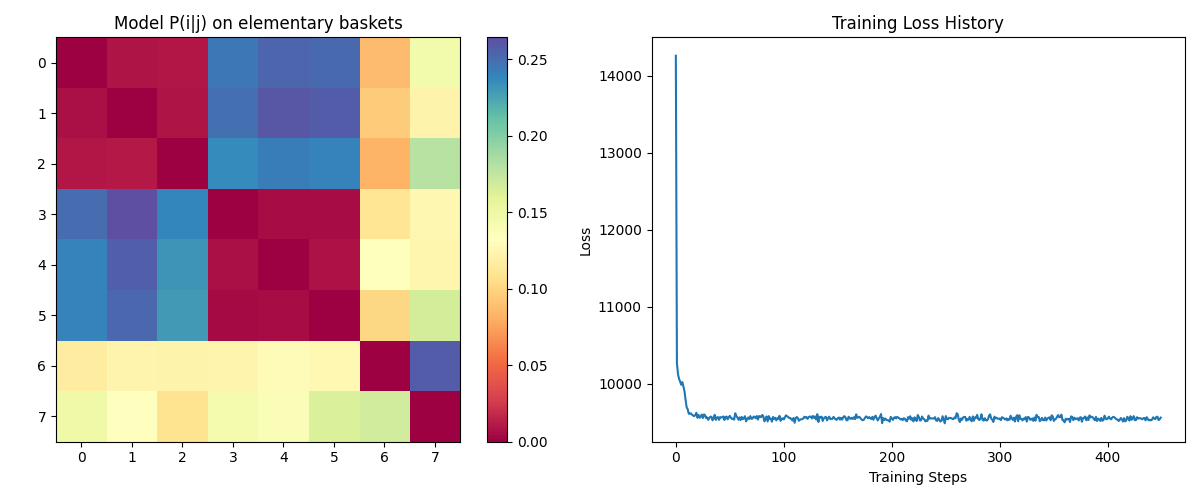
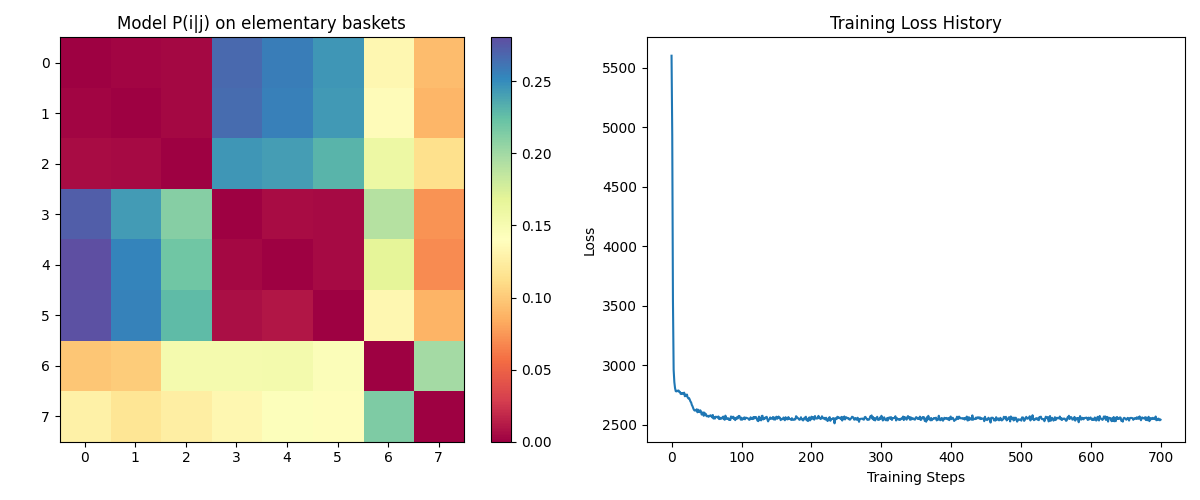
empty contexts handled

diff --git a/python/AttnModel.py b/python/AttnModel.py
@@ -18,7 +18,7 @@ class AttnModel:
     def __init__(
         self,
         lr: float = 0.005,
-        epochs: int = 450,
+        epochs: int = 700,
         optimizer: str = "Adam",
         batch_size: str = 32,
         loss_type: str = "nce",
@@ -99,6 +99,10 @@ class AttnModel:
             tf.random.normal((self.embedding_dim,), stddev=0.1), name="wa"
         )
 
+        self.empty_context_emb = tf.Variable(
+            tf.random.normal((self.embedding_dim,), stddev=0.1), name="empty_context_emb"
+        )
+
         self.is_trained = False
         self.loss_history = []
         self.instantiated = True
@@ -113,7 +117,7 @@ class AttnModel:
                 List of trainable weights (Wi, wa, Wo).
         """
 
-        return [self.Wi, self.wa, self.Wo]
+        return [self.Wi, self.wa, self.Wo, self.empty_context_emb]
 
     def get_batches(self, dataset: tf.Tensor) -> list:
         """ Generates batches of baskets for training or testing.
@@ -148,9 +152,13 @@ class AttnModel:
 
         context_emb = tf.gather(self.Wi, context_items, axis=0)
         context_vec = tf.map_fn(
-            lambda x: tf.reduce_sum(
-                tf.transpose(x) * tf.nn.softmax(tf.tensordot(x, self.wa, axes=1)), axis=1
-            ),
+            lambda x: tf.cond(
+                    tf.equal(tf.shape(x)[0], 0),
+                    lambda: self.empty_context_emb,
+                    lambda: tf.reduce_sum(
+                        tf.transpose(x) * tf.nn.softmax(tf.tensordot(x, self.wa, axes=1)), axis=1
+                    )
+                ),
             context_emb,
             fn_output_signature=tf.float32
         )

diff --git a/python/DataGen.py b/python/DataGen.py
@@ -144,7 +144,7 @@ class SyntheticDataGenerator:
         first_chosen_item, first_chosen_nest = select_first_item()
         basket = complete_basket(first_chosen_item, first_chosen_nest)
         basket = add_noise(basket)
-
+        
         return list(basket)
 
     def generate_synthetic_dataset(self, n_baskets=None, assortment=None) -> list:
@@ -173,6 +173,7 @@ class SyntheticDataGenerator:
 
         baskets = []
         for _ in range(n_baskets):
+
             baskets.append(self.generate_basket())
 
 

diff --git a/python/main.py b/python/main.py
@@ -8,7 +8,7 @@ from AttnModel import AttnModel
 
 # Parameters
 
-n_baskets = 3000
+n_baskets = 1000
 embedding_dim = 3
 K_noise = 6
 
@@ -16,6 +16,7 @@ K_noise = 6
 
 data_gen = SyntheticDataGenerator()
 baskets = data_gen.generate_synthetic_dataset(n_baskets)
+print("Generated Baskets:", baskets)
 
 # Instantiate and train the model
 
